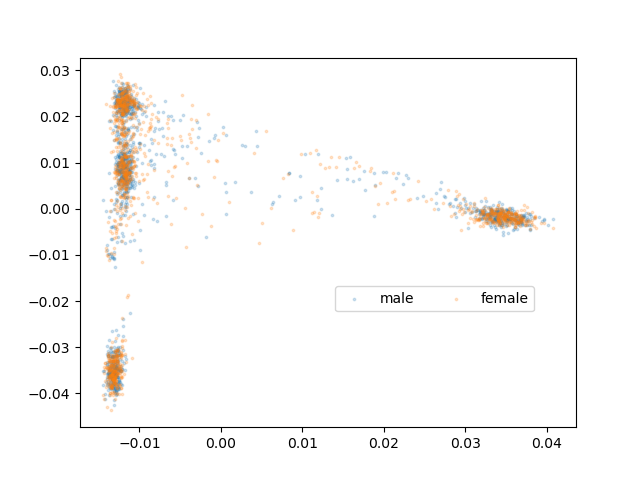
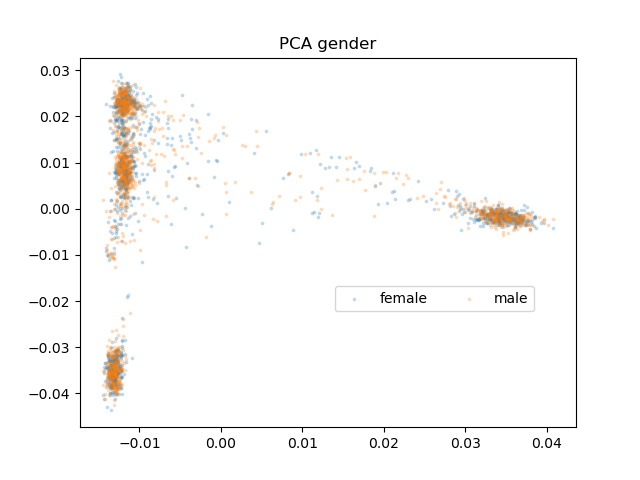
.

diff --git a/day3-homework/exercise3.py b/day3-homework/exercise3.py
@@ -5,6 +5,7 @@ import sys
 # population, superpopulation, and sex (3 separate plots)
 def visualize_color(data, qualities):
     # how I would do it without numpy
+    plt.title('PCA {}'.format(qualities))
     pc1=data['PC1']
     pc2=data['PC2']
     qual=list(set(data[qualities]))
@@ -23,6 +24,7 @@ def visualize_color(data, qualities):
 
 def visualize_color_2(data, qualities):
     # how I would do it with numpy
+    plt.title('Numpy PCA {}'.format(qualities))
     meta = np.unique(data[qualities])
     for m in meta:
         indices = np.where(data[qualities]==m)[0]
